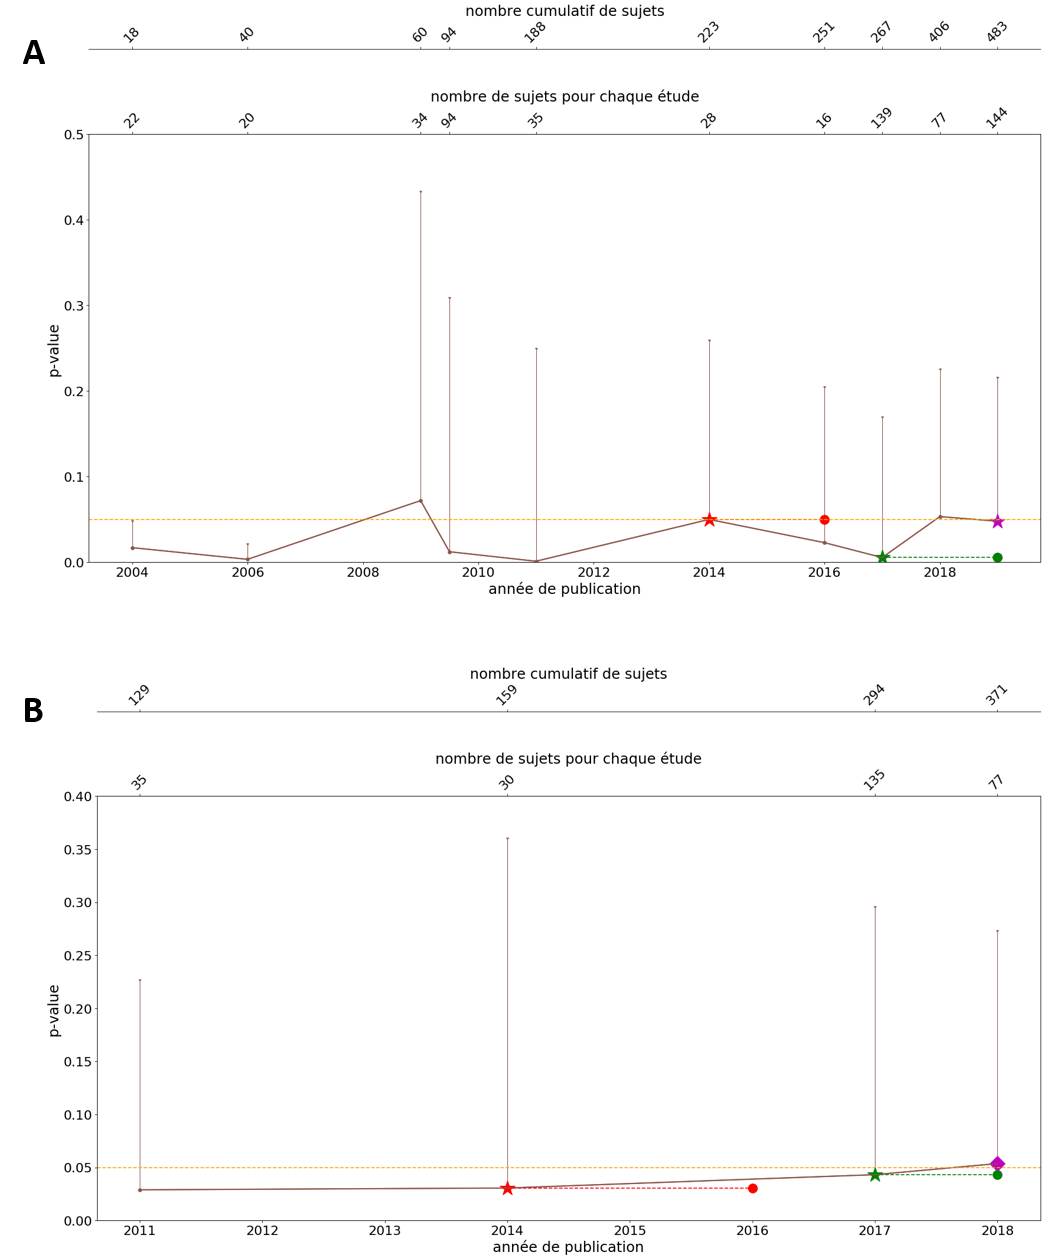
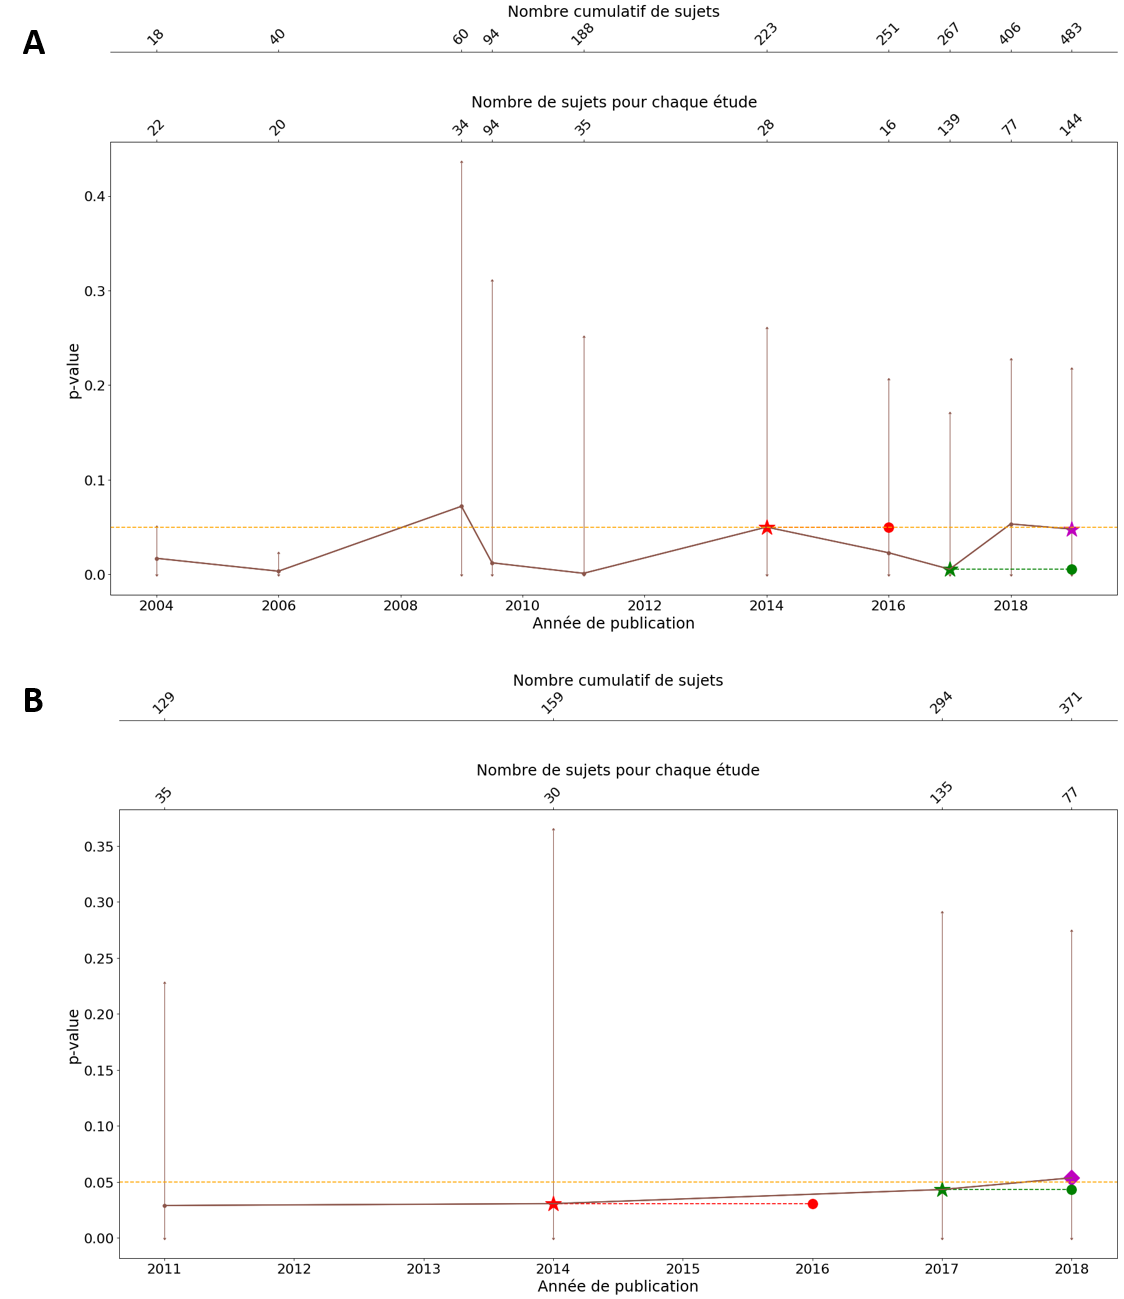
CI p-value computed, figures updated

diff --git a/chapter_2.tex b/chapter_2.tex
@@ -697,7 +697,15 @@ L'importance de mettre à jour les méta-analyses est étudiée en deux temps :
 \item par l'évolution de l'\gls{est} calculé sur la composante totale au fur et à mesure de l'inclusion des études selon leur année de publication ; l'intervalle de confiance à 95\% est 
 aussi représenté,
 \item par l'évolution de la $p$-value de ces \gls{est} ; l'intervalle de confiance à 95\% des $p$-values
-est obtenu avec les $p$-values de chaque étude incluse.
+est obtenu avec les $p$-values de chaque étude incluse. Une fois cet intervalle, noté CI, obtenu, ses bornes sont ajustées de façon à prendre en compte le fait 
+que la $p$-value est une valeur bornée entre 0 et 1 \citep{Mandelkern2002} : 
+\begin{equation}
+\label{eq:metareview_confidence_interval_evolitio_p_value}
+\text{CI} = \begin{cases}
+           [max(0;\text{borne inférieure}) ; max(0;\text{borne supérieure})], \\
+					 [min(1;\text{borne inférieure}) ; min(1;\text{borne supérieure})].
+					  \end{cases}
+\end{equation}
 \end{itemize}
 Les courbes sont tracées pour les évaluations des parents et des enseignants. Le nombre de sujets par étude (NS) et cumulatif (NSC) sont précisés sur les axes 
 des abscisses en haut de chaque graphique. Les NSC sont obtenus de la façon suivante : $\text{NSC}(n) = \text{NSC}(n - 1) + \text{NS}(n)$, avec $n$ 
